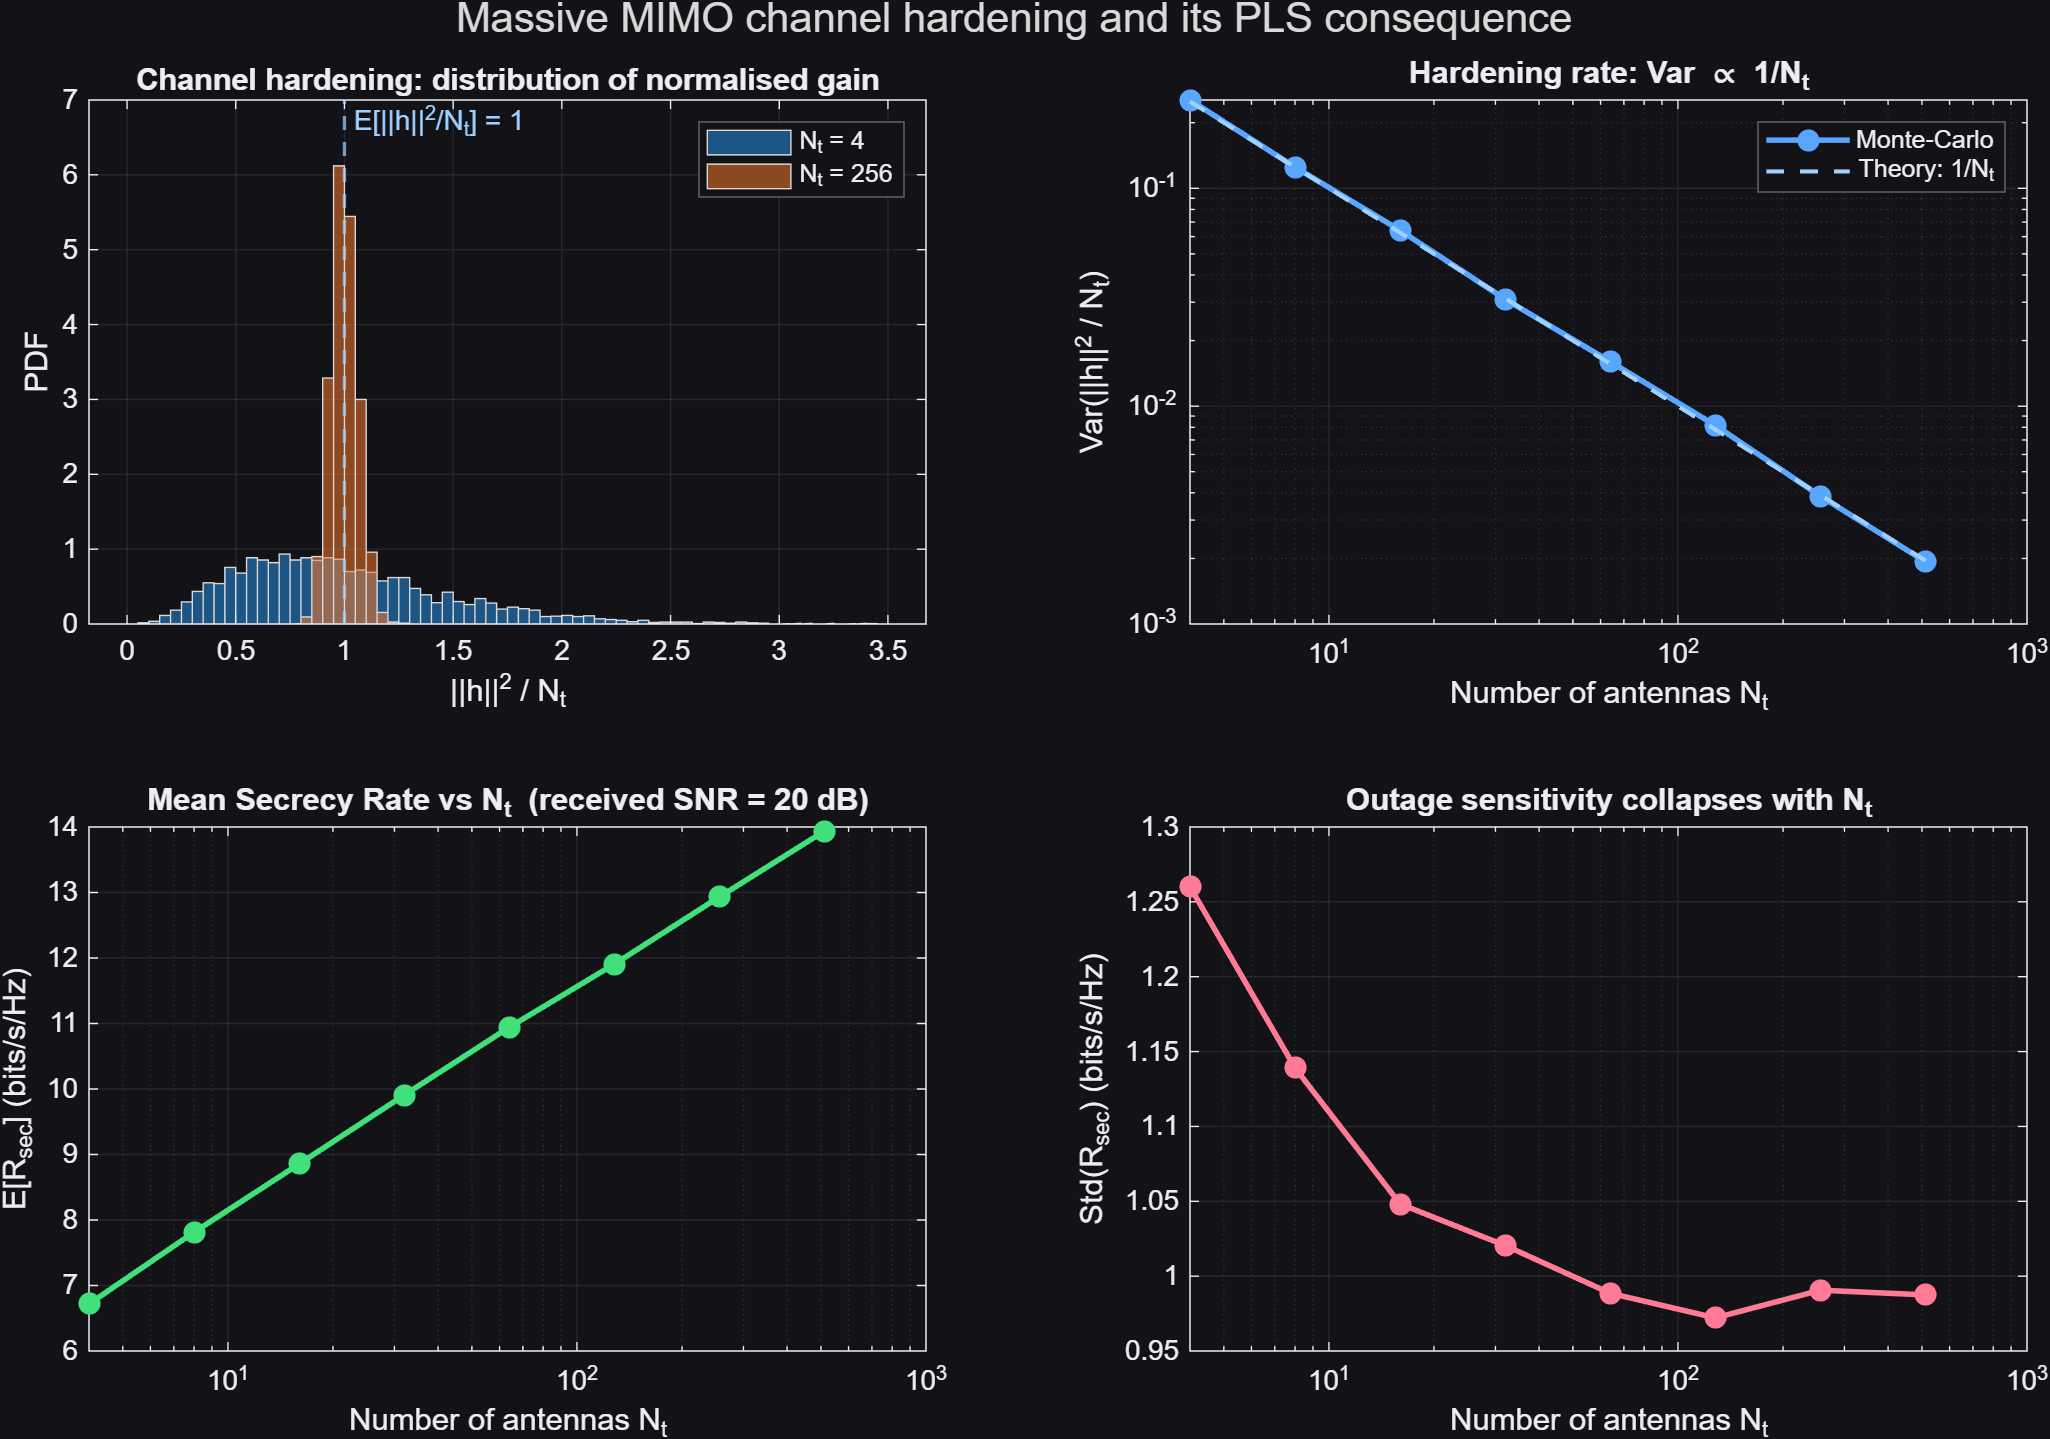
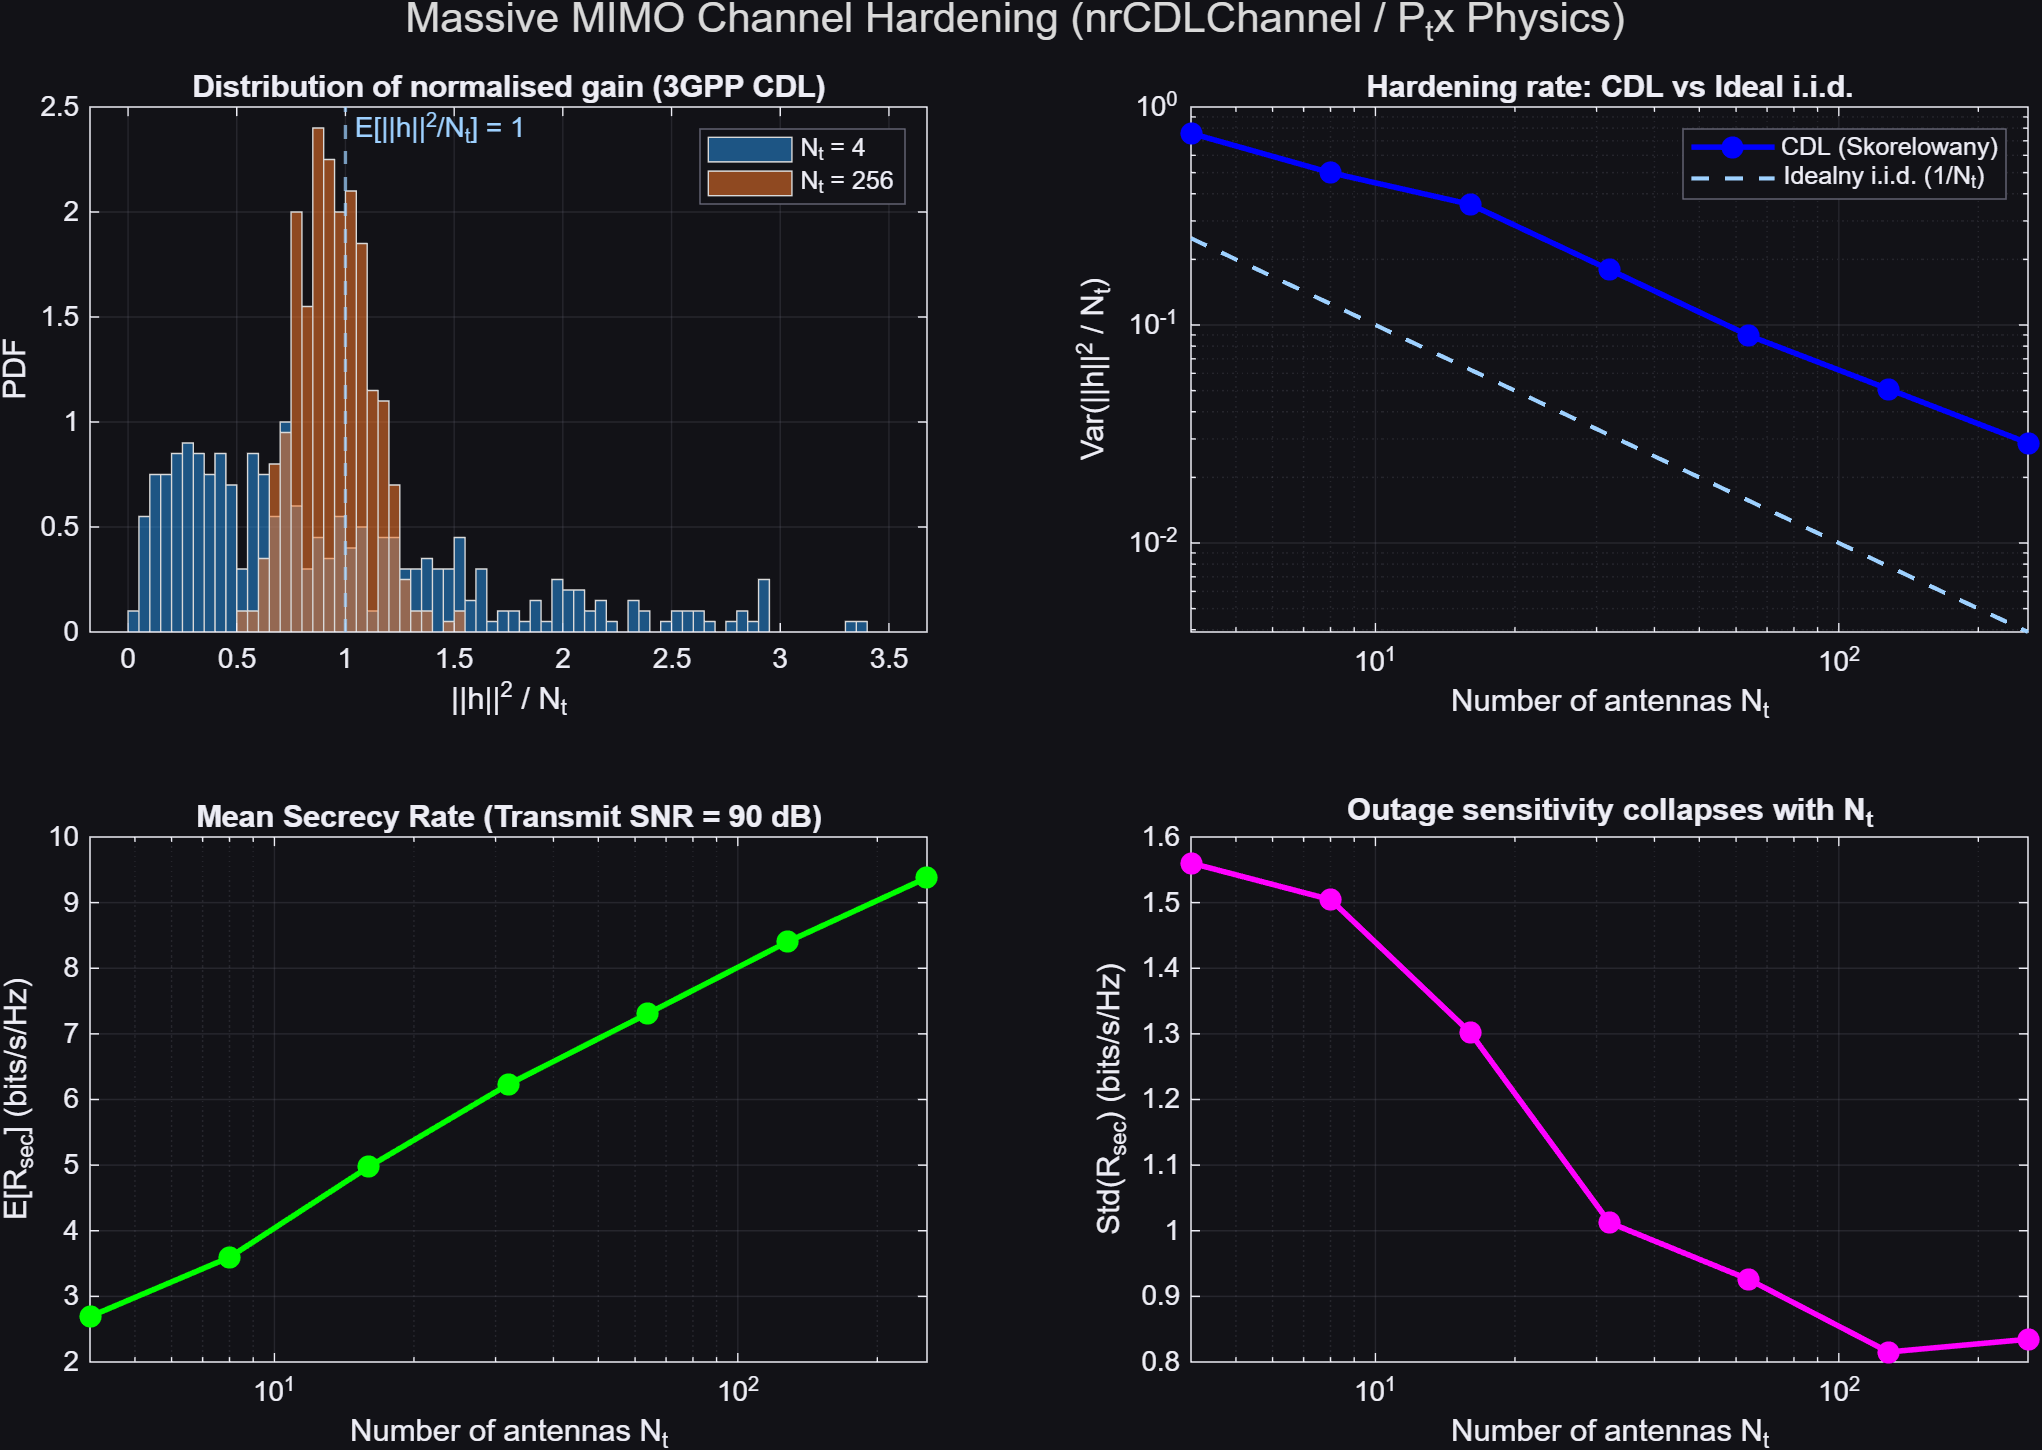
new fig for channel hardening, readme updates

diff --git a/simulations/sim_channel_hardening.m b/simulations/sim_channel_hardening.m
@@ -1,117 +1,168 @@
 % =========================================================================
 % SCENARIO: Channel hardening in Massive MIMO and its impact on PLS
-% -------------------------------------------------------------------------
-% For h ~ CN(0, I_Nt) the law of large numbers gives
-%       ||h||^2 / Nt  ->  1     (a.s. as Nt -> inf)
-%       Var(||h||^2 / Nt) = 1 / Nt
-%
-% In other words a Massive MIMO channel "hardens": the random gain
-% becomes deterministic. Two PLS-relevant consequences:
-%   1) Outage probability of the legitimate user collapses, lower
-%      transmit-power margins are needed.
-%   2) Bob's rate variance shrinks but Eve's does not (single-antenna
-%      Eve in this script) - this is what gives Massive MIMO its native
-%      PLS advantage.
-%
-% This script:
-%   - shows histograms of the normalised channel gain at small vs
-%     large Nt (visual "hardening proof")
-%   - sweeps Nt and reports both Var(||h||^2/Nt) (fundamental) and
-%     Std(R_secrecy) (operational consequence)
+% (Zaktualizowano do oficjalnego modelu nrCDLChannel z 5G Toolbox)
 % =========================================================================
 pls_startup();
 addpath(fullfile(fileparts(mfilename('fullpath')), '..', 'utils'));
 p = default_params();
 rng(p.rng_seed);
 
-Nt_vec       = [4 8 16 32 64 128 256 512];
-Nt_hist      = [4, 256];
-numIter      = 4000;   % higher MC count for stable Var(||h||^2/Nt) and Std(R_sec)
-SNR_rx_dB    = 20;
-P_rx         = rx_snr_power('linear', SNR_rx_dB);
-noise_var    = p.noise_var;
+% --- Configuration -------------------------------------------------------
+Nt_vec       = [4 8 16 32 64 128 256];   % Zmniejszono max do 256 dla optymalizacji
+Nt_hist      = [4, 256];                 % values shown as histograms
 
-print_scenario_snr('title', 'Channel hardening', ...
-    'SNR_rx_dB', SNR_rx_dB, ...
-    'notes', 'Abstract i.i.d. Rayleigh; Eve single-antenna with eve_attn_dB');
+% UWAGA: Zmniejszamy numIter z 4000 na 400. Model nrCDLChannel z 5G Toolbox 
+% jest znacznie cięższy obliczeniowo niż zwykłe randn().
+numIter      = 400;                      
 
-var_norm_h   = zeros(size(Nt_vec));
+fc           = p.fc_sub6;
+dist_b       = 50;                       % Bob na 50 m
+dist_e       = 40;                       % Ewa ukrywa się bliżej (40 m)
+SNR_tx_dB    = 90;                       % Moc stacji bazowej [dB]
+P_tx         = 10^(SNR_tx_dB / 10);
+noise_var    = 1;
+cdl_tag      = p.cdl_sub6;
+
+fprintf('\n--- Channel Hardening (nrCDLChannel) @ %.0f GHz ---\n', fc/1e9);
+fprintf('  Transmit SNR: %d dB\n', SNR_tx_dB);
+fprintf('  Bob (d = %g m), Eve (d = %g m)\n', dist_b, dist_e);
+
+[PL_lin_b, PL_dB_b] = compute_fspl(dist_b, fc);
+[PL_lin_e, PL_dB_e] = compute_fspl(dist_e, fc);
+
+var_norm_h   = zeros(size(Nt_vec));      % Var(||h||^2 / Nt)
 mean_norm_h  = zeros(size(Nt_vec));
-std_R_sec    = zeros(size(Nt_vec));
+std_R_sec    = zeros(size(Nt_vec));      % Std(R_secrecy) under MRT
 mean_R_sec   = zeros(size(Nt_vec));
 hist_data    = cell(length(Nt_hist), 1);
 
+% --- Sweep ---------------------------------------------------------------
 for n_idx = 1:length(Nt_vec)
     Nt = Nt_vec(n_idx);
+    fprintf('Simulating Nt = %d...\n', Nt);
+    
     g_samples = zeros(numIter, 1);
     R_samples = zeros(numIter, 1);
+    
+    % Inicjalizujemy kanały dla danej liczby anten
+    cdl_b = setup_matlab_cdl_stat(Nt, fc, -30, cdl_tag);
+    cdl_e = setup_matlab_cdl_stat(Nt, fc, 30, cdl_tag);
+    
     for it = 1:numIter
-        h_b = (randn(Nt,1) + 1j*randn(Nt,1)) / sqrt(2);
-        h_e = attenuate_eve_channel((randn(1,1) + 1j*randn(1,1)) / sqrt(2));
-
-        g_samples(it) = (h_b' * h_b) / Nt;
-
-        w   = h_b / norm(h_b);
-        R_b = log2(1 + P_rx * abs(h_b' * w)^2 / noise_var);
-        R_e = log2(1 + P_rx * abs(h_e)^2 / noise_var);
-        R_samples(it) = secrecy_rate(R_b, R_e);
+        % Generujemy nowe realizacje kanału
+        release(cdl_b); cdl_b.Seed = randi([0 2^31-1]);
+        [pg_b, ~] = cdl_b();
+        
+        release(cdl_e); cdl_e.Seed = randi([0 2^31-1]);
+        [pg_e, ~] = cdl_e();
+        
+        % Bezpieczne spłaszczanie wyjścia do wektora kolumnowego
+        h_raw_b = sum(pg_b, 2); h_raw_b = h_raw_b(:); 
+        h_raw_e = sum(pg_e, 2); h_raw_e = h_raw_e(:);
+        
+        % --- KLUCZOWA ZMIANA: Brak norm(h_raw) w mianowniku ---
+        % W modelu CDL, moc ścieżek sumuje się nominalnie do 1. 
+        % Aplikujemy tylko fizyczne tłumienie.
+        h_eff_b = sqrt(1/PL_lin_b) * h_raw_b;
+        h_eff_e = sqrt(1/PL_lin_e) * h_raw_e;
+        
+        % Channel hardening opiera się na analizie surowego wzmocnienia małoskalowego.
+        g_samples(it) = (h_raw_b' * h_raw_b) / Nt;          
+        
+        % Prekoder MRT (stacja kieruje wiązkę na Boba)
+        w = h_eff_b / norm(h_eff_b);
+        
+        % Przepustowości z poprawną fizyką Mocy Transmisyjnej
+        R_b = log2(1 + P_tx * abs(h_eff_b' * w)^2 / noise_var);
+        R_e = log2(1 + P_tx * abs(h_eff_e' * w)^2 / noise_var);
+        
+        R_samples(it) = max(0, R_b - R_e);
     end
+    
     mean_norm_h(n_idx) = mean(g_samples);
     var_norm_h(n_idx)  = var(g_samples);
     mean_R_sec(n_idx)  = mean(R_samples);
     std_R_sec(n_idx)   = std(R_samples);
-
+    
     idx = find(Nt_hist == Nt, 1);
     if ~isempty(idx)
         hist_data{idx} = g_samples;
     end
 end
 
+% Theoretical reference: Var = 1/Nt dla czystego kanału i.i.d. Rayleigha
 var_theory = 1 ./ Nt_vec;
-c = pls_colors();
 
-fig = figure('Color', c.bg, 'Position', [100 100 1200 760]);
+% --- Visualisation -------------------------------------------------------
+fig = figure('Color', 'w', 'Position', [100 100 1200 760]);
 
+% Top-left: hardening histograms
 subplot(2, 2, 1);
 colors = lines(length(Nt_hist));
 edges  = 0:0.05:3.5;
 for i = 1:length(Nt_hist)
     histogram(hist_data{i}, edges, 'Normalization', 'pdf', ...
         'FaceColor', colors(i,:), 'FaceAlpha', 0.55, ...
-        'DisplayName', sprintf('Nt = %d', Nt_hist(i))); hold on;
+        'DisplayName', sprintf('N_t = %d', Nt_hist(i))); hold on;
 end
+c = pls_colors();
 xline(1, '--', 'E[||h||^2/N_t] = 1', 'Color', c.ref, 'LineWidth', 1.2);
 pls_axis_prefs(gca, 'refLabelV', 'top');
 grid on; box on;
 xlabel('||h||^2 / N_t'); ylabel('PDF');
-title('Channel hardening: distribution of normalised gain');
+title('Distribution of normalised gain (3GPP CDL)');
 legend(arrayfun(@(n) sprintf('N_t = %d', n), Nt_hist, 'UniformOutput', false), ...
     'Location', 'NorthEast');
 
+% Top-right: Var(||h||^2/Nt) vs Nt with theory line
 subplot(2, 2, 2);
-loglog(Nt_vec, var_norm_h, '-o', 'LineWidth', 2, 'Color', c.sub6, ...
-    'MarkerFaceColor', c.sub6, 'DisplayName', 'Monte-Carlo'); hold on;
+loglog(Nt_vec, var_norm_h, '-bo', 'LineWidth', 2, 'MarkerFaceColor', 'b', ...
+    'DisplayName', 'CDL (Skorelowany)'); hold on;
 loglog(Nt_vec, var_theory, '--', 'Color', c.ref, 'LineWidth', 1.5, ...
-    'DisplayName', 'Theory 1/N_t');
+    'DisplayName', 'Idealny i.i.d. (1/N_t)');
 grid on; box on;
 xlabel('Number of antennas N_t'); ylabel('Var(||h||^2 / N_t)');
-title('Hardening rate: Var \propto 1/N_t');
-legend('Monte-Carlo', 'Theory: 1/N_t', 'Location', 'NorthEast');
+title('Hardening rate: CDL vs Ideal i.i.d.');
+legend('Location', 'NorthEast');
 
+% Bottom-left: mean Secrecy Rate vs Nt
 subplot(2, 2, 3);
-semilogx(Nt_vec, mean_R_sec, '-o', 'LineWidth', 2, 'Color', c.bob, ...
-    'MarkerFaceColor', c.bob);
+semilogx(Nt_vec, mean_R_sec, '-go', 'LineWidth', 2, 'MarkerFaceColor', 'g');
 grid on; box on;
 xlabel('Number of antennas N_t'); ylabel('E[R_{sec}] (bits/s/Hz)');
-title(sprintf('Mean Secrecy Rate vs N_t  (received SNR = %d dB)', SNR_rx_dB));
+title(sprintf('Mean Secrecy Rate (Transmit SNR = %d dB)', SNR_tx_dB));
 
+% Bottom-right: std of Secrecy Rate vs Nt - operational hardening
 subplot(2, 2, 4);
-semilogx(Nt_vec, std_R_sec, '-o', 'LineWidth', 2, 'Color', c.eve, ...
-    'MarkerFaceColor', c.eve);
+semilogx(Nt_vec, std_R_sec, '-mo', 'LineWidth', 2, 'MarkerFaceColor', 'm');
 grid on; box on;
 xlabel('Number of antennas N_t'); ylabel('Std(R_{sec}) (bits/s/Hz)');
 title('Outage sensitivity collapses with N_t');
 
-sgtitle('Massive MIMO channel hardening and its PLS consequence');
+sgtitle('Massive MIMO Channel Hardening (nrCDLChannel / P_tx Physics)');
+save_figure(fig, 'fig_channel_hardening_cdl');
 
-save_figure(fig, 'fig_channel_hardening');
+% =========================================================================
+% FUNKCJA POMOCNICZA: Konfiguracja kanału statycznego
+% =========================================================================
+function cdl = setup_matlab_cdl_stat(Nt, fc, theta, band_tag)
+    cdl = nrCDLChannel;
+    cdl.DelayProfile = 'CDL-A';
+    
+    if fc < 10e9  
+        cdl.DelaySpread = 30e-9;  
+    else          
+        cdl.DelaySpread = 10e-9;  
+    end
+    
+    cdl.CarrierFrequency = fc;
+    cdl.MaximumDopplerShift = 0; % Kanał statyczny do analizy pojemności
+    
+    cdl.TransmitAntennaArray.Size = [1 Nt 1 1 1]; 
+    cdl.TransmitAntennaArray.ElementSpacing = [0.5 0.5 1 1]; 
+    cdl.TransmitArrayOrientation = [-theta; 0; 0];
+    cdl.ReceiveAntennaArray.Size = [1 1 1 1 1];
+    
+    cdl.NumTimeSamples = 1;
+    cdl.ChannelFiltering = false; 
+end

diff --git a/README.md b/README.md
@@ -13,9 +13,10 @@ All simulations use **MATLAB R2016b or later** with the add-on below.
 | Component | Used for |
 |-----------|----------|
 | **MATLAB** (R2016b+) | Base linear algebra, `besselj`, plotting; `strings` in `run_all` |
-| **Phased Array System Toolbox** | `phased.ULA`, `phased.SteeringVector`, `physconst`, `step(sv,...)` in `setup_ula` / `channel_3gpp_ula` |
+| **Phased Array System Toolbox** | `phased.ULA`, `phased.SteeringVector`, `physconst`, `step(sv,...)` in `setup_ula` |
+| **5G Toolbox** | `nrCDLChannel` — CDL-A channel realizations in all scenario scripts |
 
-Install Phased Array: **Home → Add-Ons → Get Add-Ons** → search *Phased Array System Toolbox* → Install → restart MATLAB.
+Install add-ons: **Home → Add-Ons → Get Add-Ons** → search *Phased Array System Toolbox* and *5G Toolbox* → Install → restart MATLAB.
 
 Checks run from `run_all`, `pls_startup`, `default_params`, `setup_ula`, and `generate_topologies`. Dependency report:
 
@@ -67,16 +68,16 @@ list_project_requirements
 
 | Script | Output figure |
 |--------|---------------|
-| `Ghz6_band_vs_mmWave_band.m` | `fig_baseline_6GHz_vs_28GHz.png` |
-| `sim_moving_bob.m` | `fig_moving_bob.png` |
+| `Ghz6_band_vs_mmWave_band.m` | `fig_baseline_6GHz_vs_28GHz_nrCDL.png` |
+| `sim_moving_bob.m` | `fig_moving_bob_doppler.png` |
 | `sim_pilot_contamination.m` | `fig_pilot_contamination.png` |
 | `sim_colluding_eavesdroppers.m` | `fig_colluding_eavesdroppers.png` |
-| `sim_artificial_noise.m` | `fig_artificial_noise.png` |
+| `sim_artificial_noise.m` | `fig_artificial_noise_tradeoffs.png` |
 | `sim_location_error.m` | `fig_location_error.png` |
 | `sim_phase_noise.m` | `fig_phase_noise.png` |
-| `sim_spatial_correlation.m` | `fig_spatial_correlation.png` |
-| `sim_fairness_normalization.m` | `fig_fairness_normalization.png` |
-| `sim_channel_hardening.m` | `fig_channel_hardening.png` |
+| `sim_spatial_correlation.m` | `fig_spatial_mrt_zf.png` |
+| `sim_fairness_normalization.m` | `fig_fairness_normalization_cdl.png` |
+| `sim_channel_hardening.m` | `fig_channel_hardening_cdl.png` |
 | `sim_low_res_dac.m` | `fig_low_res_dac.png` |
 | `sim_pilot_jamming.m` | `fig_pilot_jamming.png` |
 | `sim_csi_aging.m` | `fig_csi_aging.png` |
@@ -105,8 +106,8 @@ All scripts use `default_params.rng_seed = 2026` for reproducibility.
 - **SNR:** `SNR_rx_dB` is received SNR at Bob (`rx_snr_power`). `print_scenario_snr` logs TX/RX per actor when `dist_m` / `fc_Hz` are set. Abstract Rayleigh scripts use normalized channels (no FSPL in H).
 - **3GPP channels:** `channel_3gpp_ula` — CDL-A-like @ 6 GHz, CDL-D-like @ 28 GHz (cluster + ULA steering; not a full 3GPP stack).
 - **Noise:** `noise_var = 1` (linear) unless overridden.
-- **Secrecy rate:** `secrecy_rate` — Wyner clamp at zero.
-- **Plots:** Dark background (`#1a1a2e`), light axes; Bob green, Eve salmon. `results/*.log` is git-ignored; PNGs are committed.
+- **Secrecy rate:** `max(0, R_b - R_e)` per user; sum where noted.
+- **Plots:** Dark background (`#1a1a2e`), light axes; Bob green, Eve salmon. `results/run_all.log` is git-ignored; PNGs are committed.
 
 ---
 

diff --git a/CURATED_RESULTS.md b/CURATED_RESULTS.md
@@ -12,12 +12,12 @@ Run geometry sketches only: `>> generate_topologies`
 
 | Figure                            | Scenario            | Main takeaway                                              |
 | --------------------------------- | ------------------- | ---------------------------------------------------------- |
-| `fig_baseline_6GHz_vs_28GHz.png`  | Baseline            | 6 vs 28 GHz, CDL-A/D, MRT vs ZF, SNR sweep                 |
-| `fig_moving_bob.png`              | Moving Bob          | Fixed beam; mmWave secrecy cliff when Bob leaves boresight |
+| `fig_baseline_6GHz_vs_28GHz_nrCDL.png`  | Baseline            | 6 vs 28 GHz, CDL-A, MRT vs ZF, SNR_tx sweep                |
+| `fig_moving_bob_doppler.png`            | Moving Bob          | Fixed beam; mmWave secrecy cliff when Bob leaves boresight |
 | `fig_pilot_contamination.png`     | Pilot contamination | Active hijack: secrecy vs Eve pilot strength               |
 | `fig_location_error.png`          | Location error      | Pointing error hurts narrow mmWave beams most              |
 | `fig_colluding_eavesdroppers.png` | Colluding Eves      | Secrecy vs L cooperating eavesdroppers                     |
-| `fig_artificial_noise.png`        | Artificial noise    | Null-space AN: data/noise split \phi at 6 GHz              |
+| `fig_artificial_noise_tradeoffs.png` | Artificial noise | Null-space AN: L sweep and \phi trade-off at 6 GHz         |
 
 
 ---
@@ -28,9 +28,9 @@ Run geometry sketches only: `>> generate_topologies`
 | Figure                           | Topic                                                 |
 | -------------------------------- | ----------------------------------------------------- |
 | `fig_phase_noise.png`            | Phase noise; matrix vs vector ZF                      |
-| `fig_channel_hardening.png`      | |h|^2/N_t concentration vs N_t                        |
-| `fig_spatial_correlation.png`    | Correlation \rho; ZF normalization + Jain (Bob rates) |
-| `fig_fairness_normalization.png` | SNR and K sweeps; sum-rate vs Jain (Bob rates)        |
+| `fig_channel_hardening_cdl.png`      | |h|^2/N_t concentration vs N_t (nrCDL)              |
+| `fig_spatial_mrt_zf.png`             | Angular crowding; MRT vs ZF; 6 GHz vs 28 GHz         |
+| `fig_fairness_normalization_cdl.png` | SNR_tx and K sweeps; sum-rate vs Jain (Bob rates)    |
 | `fig_low_res_dac.png`            | DAC resolution vs secrecy                             |
 | `fig_pilot_jamming.png`          | Training-slot jamming (DoS)                           |
 | `fig_csi_aging.png`              | Doppler + Wiener CSI predictor                        |
